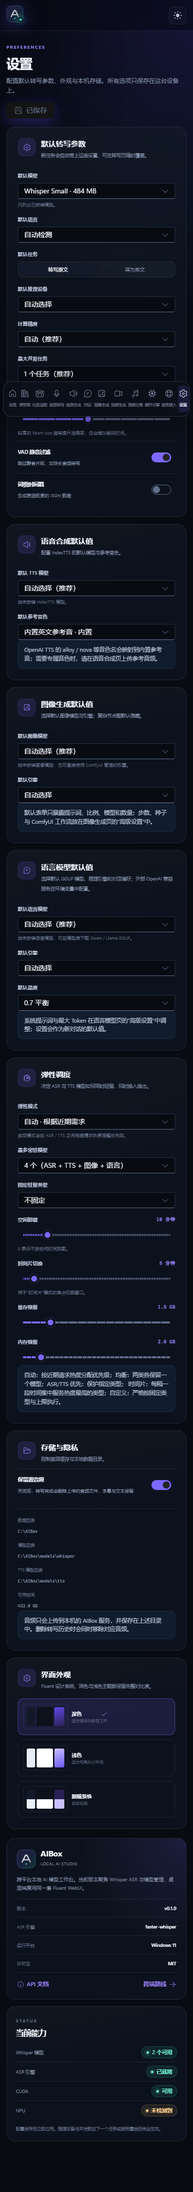
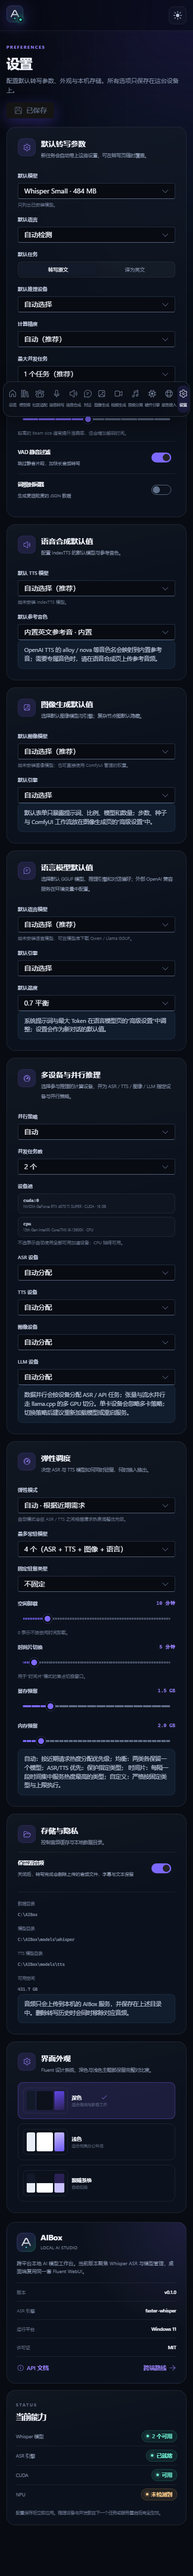
docs: document multi-device and parallel inference

diff --git a/docs/parallel.md b/docs/parallel.md
@@ -1,0 +1,103 @@
+# 多设备与并行推理
+
+AIBox 把设备、模型和任务分成三层：
+
+```text
+设备池（cuda:0 / cuda:1 / cpu）
+        │
+任务调度（按策略选择设备）
+        │
+引擎（ASR / TTS / Image / LLM）
+```
+
+设置入口：**设置 → 多设备与并行推理**。
+
+## 策略
+
+| 策略 | 行为 | 适用 |
+| --- | --- | --- |
+| `auto` | 自动选择可用加速设备；LLM 单卡 | 默认 |
+| `single` | 每个引擎使用一个设备 | 单卡 / 稳定优先 |
+| `data` | 多个 ASR 任务按设备分配；每设备一个 Whisper 副本 | 多路转写 / 多 GPU |
+| `tensor` | LLM 使用 llama.cpp `row` split，按 GPU 切张量 | 单模型多卡、低延迟 |
+| `pipeline` | LLM 使用 llama.cpp `layer` split，按层切分 | 单模型多卡、显存不足 |
+| `hybrid` | LLM tensor split + 其他任务数据并行 | 混合负载 |
+
+单卡设备会自动退化为单设备，不会强行多卡。
+
+## 设备池
+
+`/api/devices` 返回：
+
+- `devices`：`cuda:0`、`cuda:1`、`cpu` 等；
+- `selected`：参与调度的设备；
+- `assignments`：ASR / TTS / Image / LLM 当前分配；
+- `active`：ASR 任务占用计数；
+- `workers`：并发任务数。
+
+设置中的“设备池”留空表示自动选择全部可用加速设备；CPU 始终可用。
+
+## ASR 数据并行
+
+当策略为 `data` 且设备池包含多个设备时，AIBox 为每个设备惰性创建独立 `WhisperEngine`：
+
+- 每个副本有自己的 CTranslate2 模型与推理锁；
+- 任务由调度器分配到不同 GPU；
+- `parallel_workers` 控制转录并发数。
+
+这适合批量音频、多路实时转写。ASR 副本不进入弹性预算的单一 `asr` 槽位，显存由设备池隔离；生产环境请按单卡显存选择模型大小。
+
+## LLM 多 GPU
+
+本地 llama.cpp 支持：
+
+```text
+--split-mode row      # tensor parallel
+--split-mode layer    # pipeline parallel
+--tensor-split 1,1    # 每张卡的比例
+CUDA_VISIBLE_DEVICES  # 设备池映射
+```
+
+AIBox 根据策略与设备池生成这些参数，并设置 `--main-gpu`、`--parallel`。示例：
+
+```text
+策略 tensor + 设备池 cuda:0,cuda:1
+→ CUDA_VISIBLE_DEVICES=0,1
+→ --split-mode row --tensor-split 1,1
+```
+
+外部 vLLM / SGLang 的张量并行由上游服务自己配置；AIBox 只作为 OpenAI 兼容客户端。
+
+## TTS / 图像
+
+TTS 与 Diffusers worker 支持指定 `--device`，可以在不同 GPU 上并行运行 ASR + TTS + 图像任务。当前每个引擎仍是一个 worker；同模型多副本留给后续版本。
+
+## API
+
+```http
+GET  /api/devices
+POST /api/devices/refresh
+PATCH /api/settings
+```
+
+设置字段：
+
+```json
+{
+  "parallel_strategy": "data",
+  "parallel_devices": ["cuda:0", "cuda:1"],
+  "parallel_workers": 4,
+  "asr_device": "auto",
+  "tts_device": "cuda:1",
+  "image_device": "cuda:0",
+  "llm_device": "auto"
+}
+```
+
+## 限制
+
+- 张量 / 流水并行目前只接本地 llama.cpp；ComfyUI / Diffusers 的多卡切分由上游工作流负责。
+- ASR 数据并行按设备复制模型，显存 × 设备数；没有跨设备张量切分。
+- TTS / 图像当前是设备分配，不是同模型多副本。
+- 切换策略或设备池后，已加载的本地模型建议重新加载 / 重启服务。
+- 真实多卡机器未在本机验证；单卡设备路径已测试，调度与命令生成已做单元验证。

diff --git a/docs/verification.md b/docs/verification.md
@@ -6,7 +6,7 @@
 
 ```text
 python -m ruff check services/api        → All checks passed
-python -m pytest services/api/tests -q   → 36 passed
+python -m pytest services/api/tests -q   → 38 passed
 ```
 
 Windows 上测试进程偶发 `0xC0000005`（Python / 原生库退出阶段，堆栈落在 GC 或 pytest 源码读取），重跑即可通过；服务进程本身持续运行无异常。
@@ -107,6 +107,14 @@ container: 1Panel-new-api-0Vsg
 - NewAPI 当前部分上游渠道返回 `Missing API key`、`Model is unavailable`、`ModelDeprecated`、`504`，属于 NewAPI 渠道状态；
 - 未把 NewAPI Token 写入仓库；双向接入说明见 [与 NewAPI 结合](newapi.md)。
 
+## 多设备与并行实测
+
+- `/api/devices` 返回 `cuda:0` / `cpu` 设备池、选中设备、策略与并发数；
+- 设置 PATCH 后策略与设备池即时反映；
+- `tensor` 策略生成 `row` split，`pipeline` 生成 `layer` split；
+- 单卡环境自动退化为单设备；
+- 真实双卡机器未在本机验证；调度、命令生成与 API 流程已测试。
+
 ## 外部传输端到端
 
 在本机启动 HTTP/WS/gRPC/MRCP 服务后实测：
@@ -159,7 +167,7 @@ Whisper Small · NVIDIA CUDA · float16
 ```text
 pnpm --filter @aibox/web typecheck   → 通过
 pnpm --filter @aibox/web test        → 4 passed
-pnpm --filter @aibox/web build       → 通过（约 784 KB JS / 214 KB gzip）
+pnpm --filter @aibox/web build       → 通过（约 787 KB JS / 215 KB gzip）
 pnpm --filter @aibox/web build:desktop → 通过
 ```
 

diff --git a/docs/hardware-and-models.md b/docs/hardware-and-models.md
@@ -139,6 +139,16 @@ IndexTTS 通过独立 Python worker 加载，模型放在 `models/tts/`；运行
 
 本地 GGUF 通过 `llama-server` 运行，`AIBOX_LLM_GPU_LAYERS` 控制 GPU 卸载；外部 OpenAI 兼容服务不占本地预算。详见 [大语言模型](llm.md)。
 
+## 多设备
+
+设备池由硬件发现生成：`cuda:N`、`metal:N`、`cpu`。设置页可选择参与调度的设备，并为 ASR / TTS / Image / LLM 指定设备。多卡策略：
+
+- `data`：ASR 每设备一个副本；
+- `tensor` / `pipeline`：本地 llama.cpp 多 GPU 切分；
+- `hybrid`：LLM 张量并行 + 其他任务数据并行。
+
+详见 [多设备与并行推理](parallel.md)。
+
 ASR 与 TTS 同时驻留时的预算、换出规则见 [多模型与弹性调度](runtime.md)。社区外部适配器（`openai-http` / `command`）由外部进程或服务管理资源，不进入本地驻留预算；详见 [社区适配](community.md)。
 
 ## 资源预算

diff --git a/docs/api.md b/docs/api.md
@@ -267,6 +267,29 @@ POST /api/llm/unload
 
 本地 GGUF 通过 llama-server 运行；外部 OpenAI 兼容服务使用 `AIBOX_LLM_BASE_URL`。详见 [大语言模型](llm.md)。
 
+## 多设备与并行
+
+```http
+GET  /api/devices
+POST /api/devices/refresh
+```
+
+返回设备池、当前策略、每类引擎的设备分配、ASR 活跃占用与并发数。设置字段：
+
+```json
+{
+  "parallel_strategy": "data",
+  "parallel_devices": ["cuda:0", "cuda:1"],
+  "parallel_workers": 4,
+  "asr_device": "auto",
+  "tts_device": "cuda:1",
+  "image_device": "cuda:0",
+  "llm_device": "auto"
+}
+```
+
+策略与限制见 [多设备与并行推理](parallel.md)。
+
 ## 健康检查
 
 ```http
